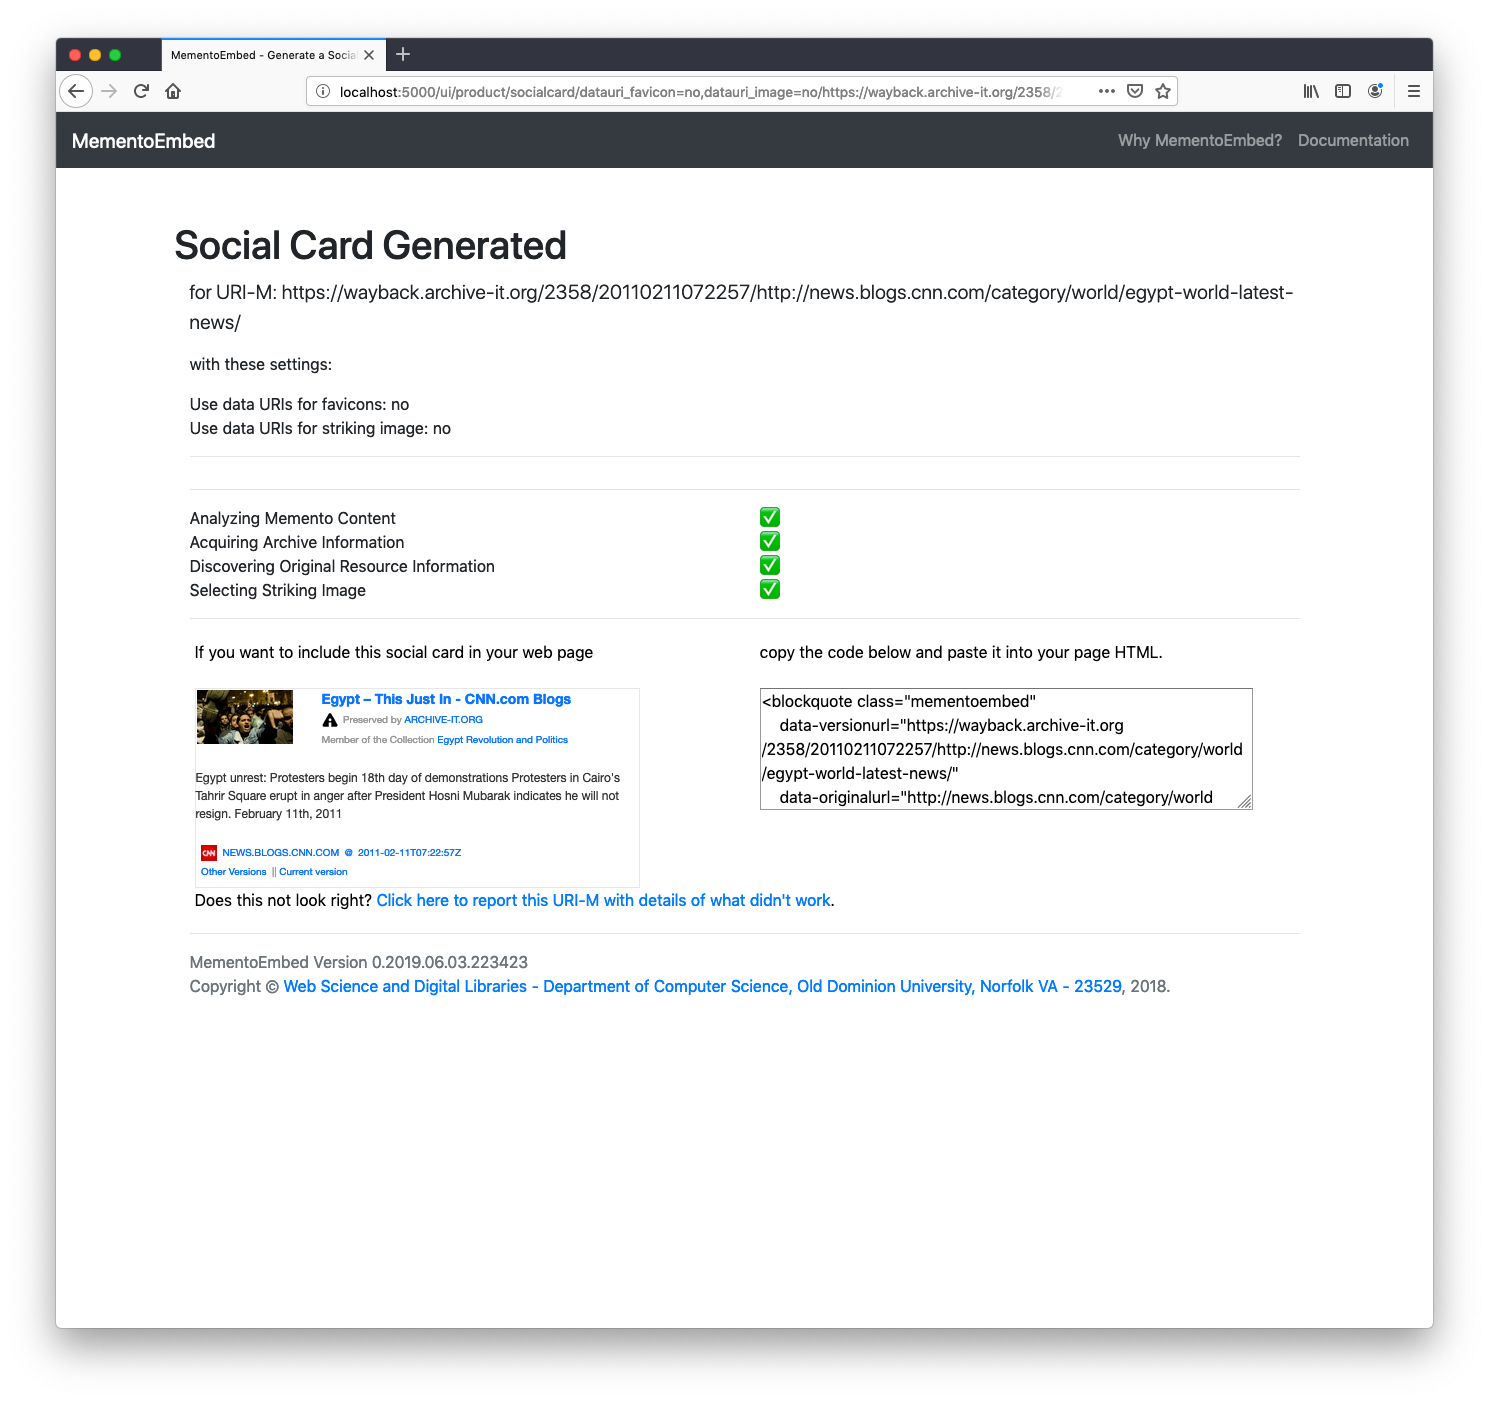
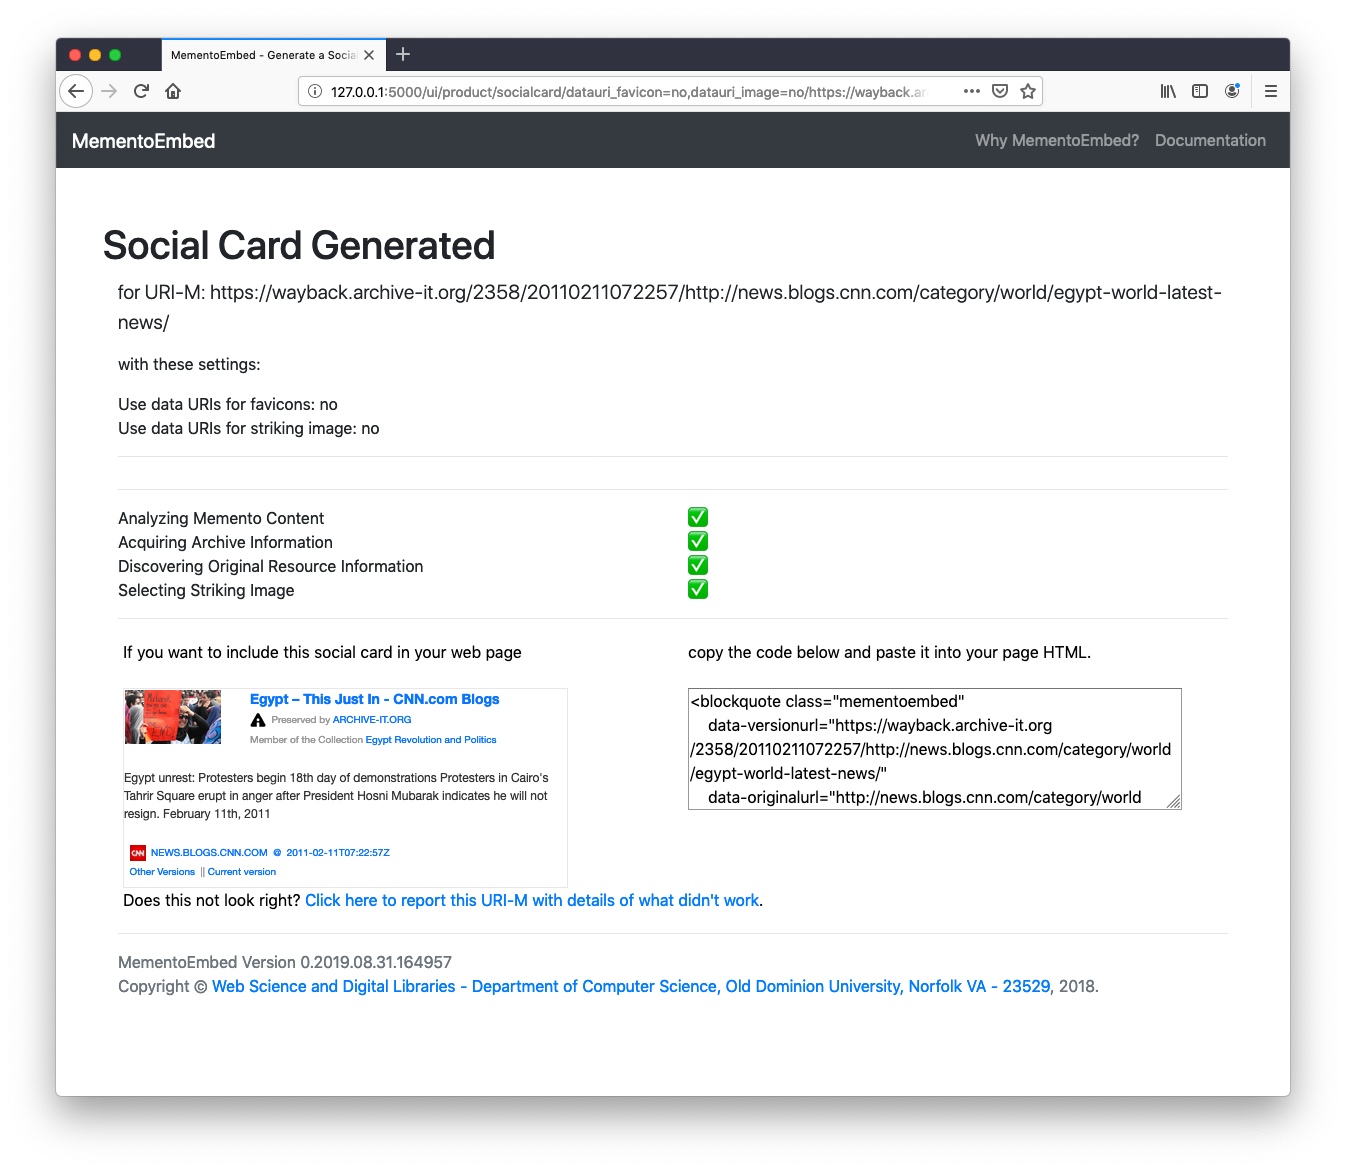
updates to documentation after image ranking changes

Changed region(s): [[0.0312, 0.0, 0.9673, 0.9538]]

diff --git a/docs/source/conf.py b/docs/source/conf.py
@@ -26,7 +26,7 @@ author = 'Shawn M. Jones'
 # The short X.Y version
 version = ''
 # The full version, including alpha/beta/rc tags
-release = '0.2019.07.11.152847'
+release = '0.2019.08.31.164957'
 
 
 # -- General configuration ---------------------------------------------------

diff --git a/mementoembed/version.py b/mementoembed/version.py
@@ -1,3 +1,3 @@
 __appname__ = "MementoEmbed"
-__appversion__ = '0.2019.07.11.152847'
+__appversion__ = '0.2019.08.31.164957'
 __useragent__ = "{}/{}".format(__appname__, __appversion__)

diff --git a/docs/source/web_api.rst b/docs/source/web_api.rst
@@ -125,17 +125,22 @@ Each record in the ``images`` dictionary has a key of the URI-M of the image wit
 * ``size in pixels`` - the overall number of pixels in the image determined by ``width`` multiplied by ``height``; `s` in the ranking equation
 * ``ratio width/height`` - the ratio of width to height, which can be useful fo detecting advertising banners; `r` in the ranking equation
 * ``byte size`` - the size of the image, in bytes, useful for detecting small images typically used for spacing
+* ``number of colors`` - the number of colors in the image, more colorful images tend to be photographs rather than logos; `c` in the ranking equation
 * ``N`` - the number of images detected on the page
 * ``n`` - the order the image was detected on the page
 * ``k1`` - the weight used for the first term of the ranking equation (N - n) 
 * ``k2`` - the weight used in the ranking equation for the size of the image in pixels
 * ``k3`` - the weight used in the ranking equation for the number of blank columns in the histogram
 * ``k4`` - the weight used in the ranking equation for the ratio of width/height
+* ``k5`` - the weight used in the ranking equation for the number of colors in the image
+
 * ``calculated score`` - the score, as determined by the ranking equation; `S` in the equation below
 
 The current image ranking equation is as follows:
 
-.. image:: images/image_eq.png
+.. math::
+
+    S = k_1 (N-n) + k_2 s - k_3 h - k_4 r + k_5 c
 
 After the ``images`` list is a ``ranked images`` list containing the URI-Ms of each image in order by score.
 
